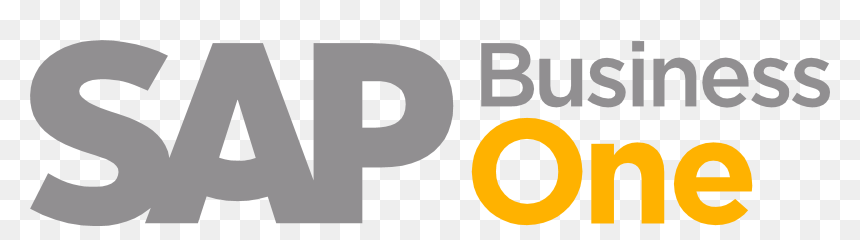
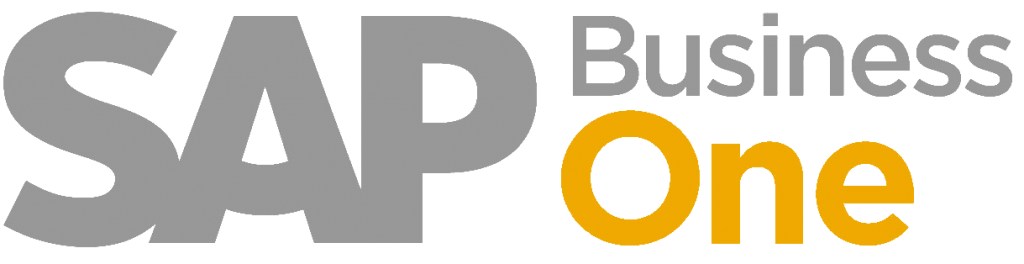
feat: Add SAP Business One and Microsoft Dynamics 365 integrations and adjust the integration grid column count.

diff --git a/index.html b/index.html
@@ -2362,7 +2362,7 @@
 
             @media (min-width: 768px) {
                 .integration-grid {
-                    grid-template-columns: repeat(4, 1fr);
+                    grid-template-columns: repeat(3, 1fr);
                 }
             }
 
@@ -3476,7 +3476,34 @@
                         <span class="logo-name">PEAK</span>
                     </div>
                 </div>
+
+                <!-- Sap -->
+                <div class="logo-card reveal reveal-scale-up" style="transition-delay: 0.4s;">
+                    <div class="integration-badge"></div>
+                    <div class="flex flex-col items-center">
+                        <div class="logo-img">
+                            <img src="assets/images/sap.png" alt="PEAK" class="max-h-[40px] w-auto">
+                        </div>
+                        <span class="logo-name">SAP Business One</span>
+                    </div>
+                </div>
+
+                <!--Microsoft -->
+                <div class="logo-card reveal reveal-scale-up" style="transition-delay: 0.4s;">
+                    <div class="integration-badge"></div>
+                    <div class="flex flex-col items-center">
+                        <div class="logo-img">
+                            <img src="assets/images/microsoft.png" alt="PEAK" class="max-h-[50px] w-auto">
+                        </div>
+                        <span class="logo-name">Microsoft Dynamics 365</span>
+                    </div>
+                </div>
+
+
             </div>
+
+
+        </div>
         </div>
 
         <!-- Background Glows -->
